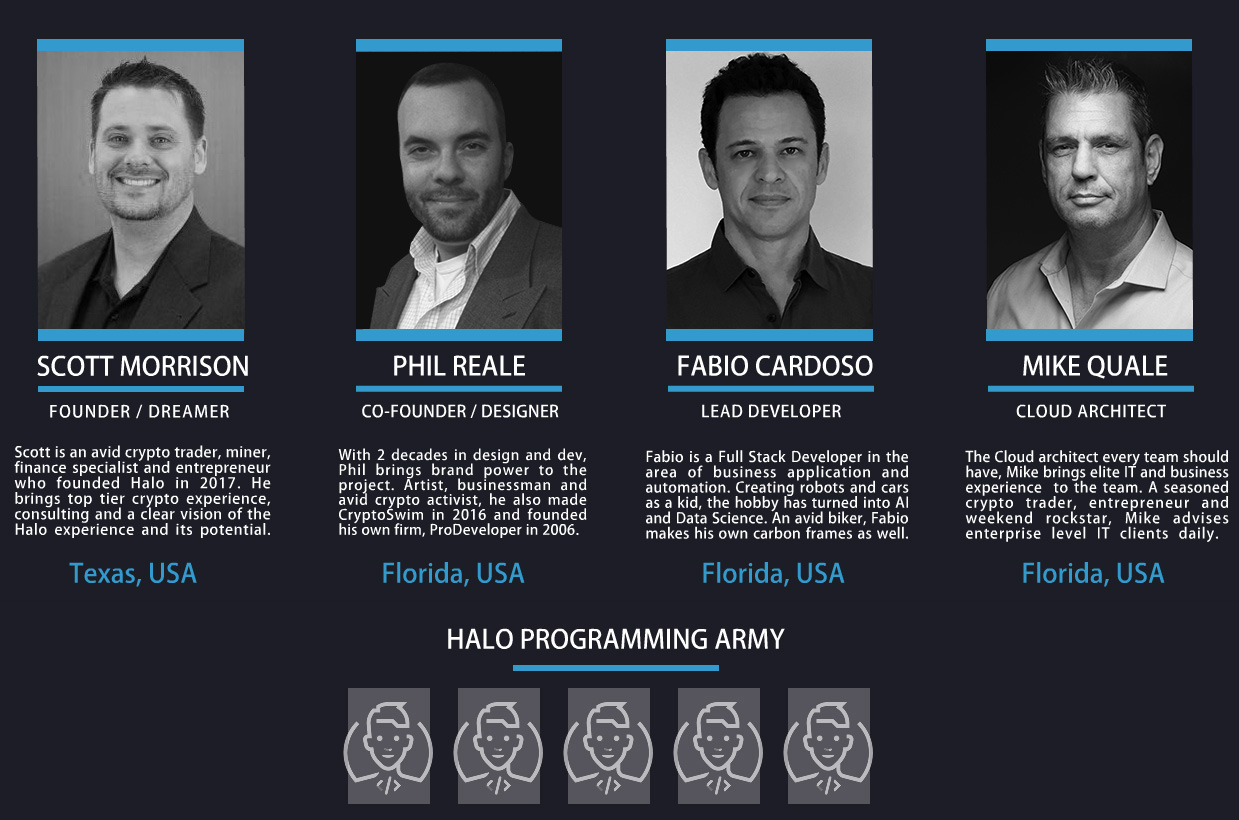
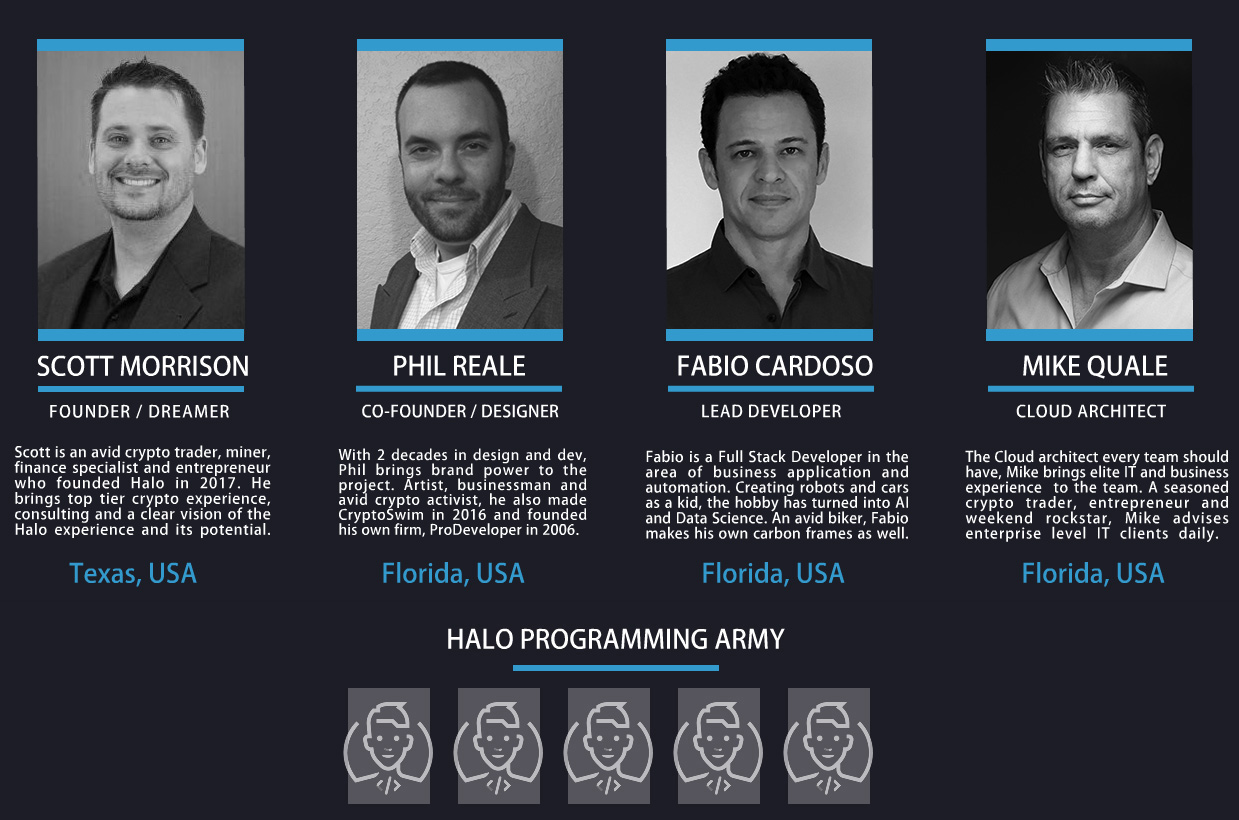
Updated Team Pic
Team Pic update

Changed region(s): [[0.276, 0.061, 0.46, 0.3963]]

diff --git a/contact.html b/contact.html
@@ -93,7 +93,7 @@
 							  <p>Contact the HALO Team Today! </p></h2>
                               <p>We look forward to hearing from you.</p>
                             </header>
-                            <center><img src="images/team-pic7.jpg" alt="" width="1239" height="820" class="image"/></center>
+                            <center><img src="images/team-pic8.jpg" alt="" width="1239" height="820" class="image"/></center>
 <center><script type="text/javascript" src="https://form.jotform.us/jsform/71804578374162"></script></center>
 						<div class="row 150%">
 							<div class="8u 12u$(medium)">
